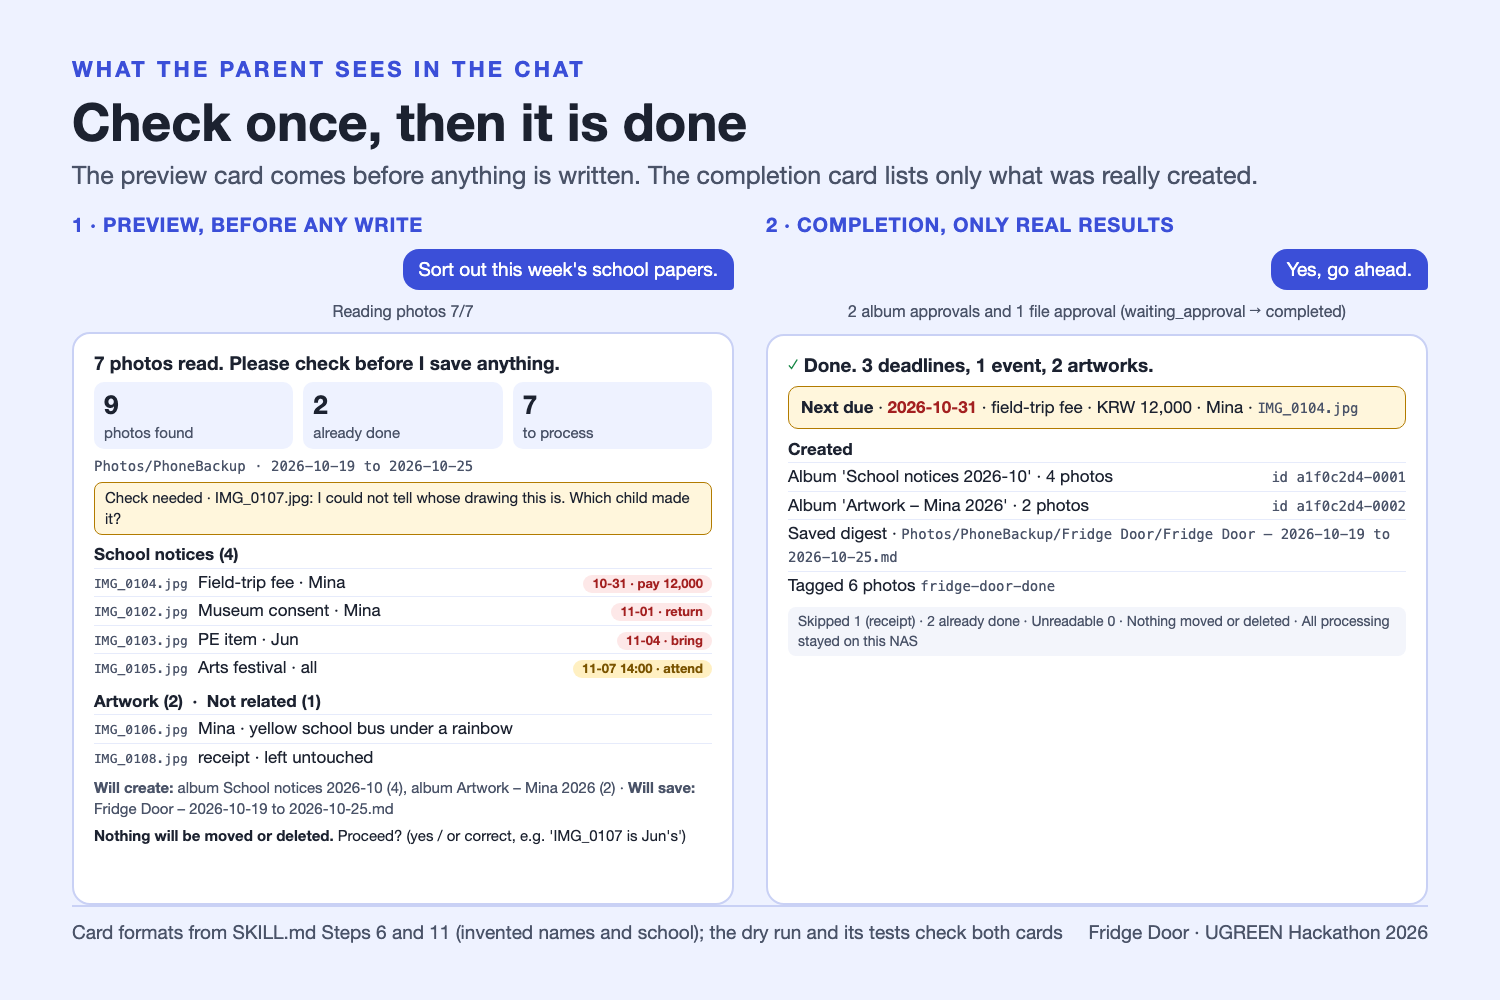
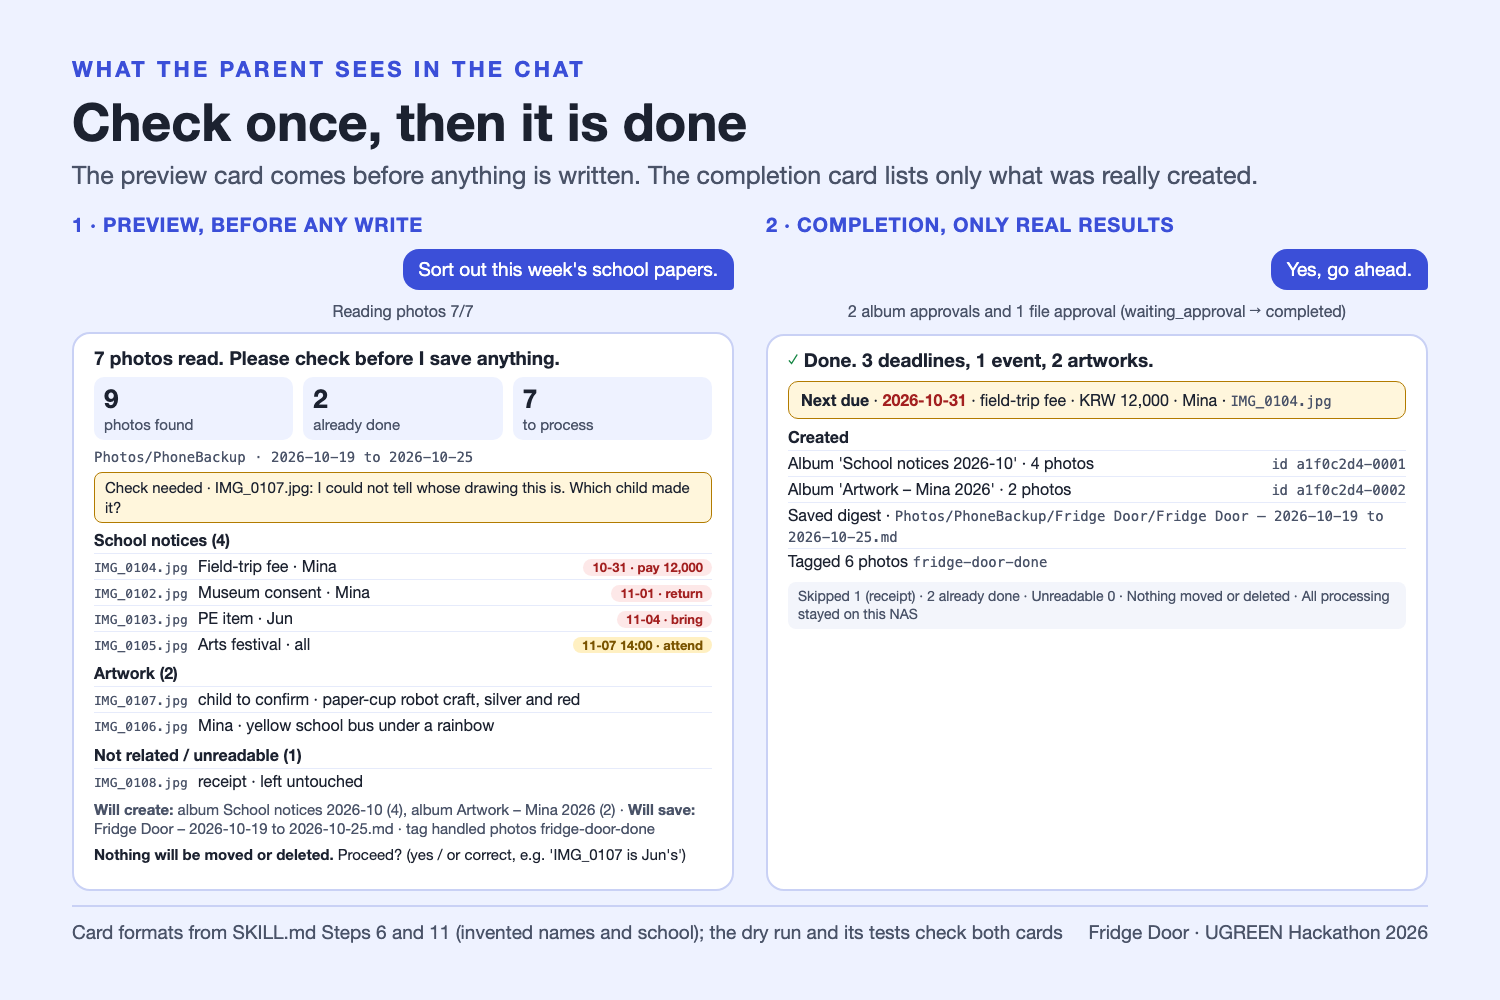
fix(gallery): preview card lists both artworks, separate Not related group, tag clause

Changed region(s): [[0.0613, 0.341, 0.4907, 0.868], [0.5213, 0.341, 0.9507, 0.651]]

diff --git a/docs/submission/gallery/00-chat.html b/docs/submission/gallery/00-chat.html
@@ -1,11 +1,11 @@
 <!doctype html><meta charset="utf-8"><title>chat</title><link rel="stylesheet" href="base.css">
 <style>
-.wrap{display:flex;gap:32px;flex:1;min-height:0;margin-top:-10px}
+.wrap{display:flex;gap:32px;flex:1;min-height:0;margin-top:-10px;margin-bottom:14px}
 .col{flex:1;display:flex;flex-direction:column;gap:12px;min-width:0}
 .cap{font-size:20px;font-weight:700;color:var(--blue);letter-spacing:.04em}
 .user{align-self:flex-end;background:var(--blue);color:#fff;border-radius:16px 16px 4px 16px;padding:9px 16px;font-size:19px}
 .sys{font-size:16px;color:var(--mute);text-align:center}
-.bot{padding:16px 20px;font-size:17px;line-height:1.38;flex:1}
+.bot{padding:12px 20px;font-size:16px;line-height:1.3;flex:1}
 .bot .head{font-weight:700;font-size:19px;margin-bottom:6px}
 .strip{display:flex;gap:10px;margin:6px 0 8px}
 .strip div{flex:1;background:var(--canvas);border-radius:10px;padding:5px 10px;font-size:15px;color:var(--mute)}
@@ -42,10 +42,12 @@
   <div class="r"><span class="f">IMG_0102.jpg</span><span class="t">Museum consent &middot; Mina</span><span class="pill red">11-01 &middot; return</span></div>
   <div class="r"><span class="f">IMG_0103.jpg</span><span class="t">PE item &middot; Jun</span><span class="pill red">11-04 &middot; bring</span></div>
   <div class="r"><span class="f">IMG_0105.jpg</span><span class="t">Arts festival &middot; all</span><span class="pill yel">11-07 14:00 &middot; attend</span></div>
-  <div class="g">Artwork (2) &nbsp;&middot;&nbsp; Not related (1)</div>
+  <div class="g">Artwork (2)</div>
+  <div class="r"><span class="f">IMG_0107.jpg</span><span class="t">child to confirm &middot; paper-cup robot craft, silver and red</span></div>
   <div class="r"><span class="f">IMG_0106.jpg</span><span class="t">Mina &middot; yellow school bus under a rainbow</span></div>
+  <div class="g">Not related / unreadable (1)</div>
   <div class="r"><span class="f">IMG_0108.jpg</span><span class="t">receipt &middot; left untouched</span></div>
-  <div class="note"><b>Will create:</b> album School notices 2026-10 (4), album Artwork &ndash; Mina 2026 (2) &middot; <b>Will save:</b> Fridge Door &ndash; 2026-10-19 to 2026-10-25.md</div>
+  <div class="note"><b>Will create:</b> album School notices 2026-10 (4), album Artwork &ndash; Mina 2026 (2) &middot; <b>Will save:</b> Fridge Door &ndash; 2026-10-19 to 2026-10-25.md &middot; tag handled photos fridge-door-done</div>
   <div class="note" style="color:var(--ink)"><b>Nothing will be moved or deleted.</b> Proceed? (yes / or correct, e.g. 'IMG_0107 is Jun's')</div>
  </div>
 </div>

diff --git a/tests/test_skill_should.py b/tests/test_skill_should.py
@@ -88,3 +88,15 @@ def test_s4_checked_items_are_done() -> None:
     part = subsection("Carry over open items")
     assert "(`- [ ]`)" in part and "`- [x]` count as done" in part and '"carried over"' in part
     assert "An empty result means there is nothing to carry over" in part
+
+
+def test_gallery_preview_card_lists_every_counted_artwork() -> None:
+    import re
+    from pathlib import Path
+
+    html = (Path(__file__).resolve().parent.parent / "docs/submission/gallery/00-chat.html").read_text()
+    card = html.split("2 &middot; COMPLETION")[0]
+    block = card.split("Artwork (2)")[1].split("Not related")[0]
+    assert len(re.findall(r"IMG_\d{4}\.jpg", block)) == 2
+    assert "Not related / unreadable (1)</div>" in card
+    assert "tag handled photos" in card

diff --git a/docs/spec-matrix.md b/docs/spec-matrix.md
@@ -88,3 +88,33 @@ Re-run: pytest 122 passed, ruff and mypy clean, `scripts/check.py fridge-door` 0
 | C3-S1-gallery | mockup S1 | Preview card sample consistent | gap (low) | gallery/00-chat.png says "Artwork (2)" but lists only IMG_0106; IMG_0107 appears only in the warning, unlike README sample and dry-run output (both list both items) |
 | C3-zip-size | 09 / Devpost | ZIP size stated correctly | fixed (Round 3) | devpost.md:36 and checklist.md:18 now say 15,854 bytes (stat dist/fridge-door.zip = 15,854); checklist max file size corrected to 20,074 bytes (SKILL.md) |
 | C3-S1-warn-render | mockup S1 | Low-OCR warning shown in a real run | match (spec) | flow-a dry run prints no warning (name read from the drawing); warning rendered in testkit-b and gallery |
+
+## Round 4 audit (2026-11-01, independent, full conformance)
+
+Re-run: pytest 122 passed, ruff and mypy clean, `scripts/check.py fridge-door` 0 error 0 warning, dry run flow-a completed (20 delegations listed, 2 waiting_approval then completed, digest printed), dist ZIP extracted and diffed against fridge-door/ (identical), git tree clean. Gallery 00-chat.png re-viewed against mockups S1/S2.
+
+| id | artifact section | expected | status | evidence |
+|---|---|---|---|---|
+| R4-S1 | mockup S1 | Preview card: 9/2/7 strip, warning, grouped lists, Will create/save, Proceed | match | 00-chat.png left card |
+| R4-S2 | mockup S2 | Completion card: Next due, real ids, tag line, grey status | match | 00-chat.png right card |
+| R4-S3 | mockup S3 | Digest with source files, checkboxes, meta line | match | dryrun delegation 20 text |
+| R4-flow | 06 flows A/B/C | Full flows runnable via dry run | match | flow-a, testkit-a, testkit-b |
+| R4-gallery-artwork | mockup S1 | Gallery card: Artwork (2) lists both items | gap (low) | 00-chat.png and 00-chat.html:45 show "Artwork (2)" with only IMG_0106; IMG_0107 only in the warning. Still open from Round 3 |
+| R4-S4/S5sign/S6/official | S4, S5, S6, 09 | Real NAS screens, signature, video, official checker | blocked | real NAS Round 2, user input, kit not installed |
+| R4-win-real | criteria AI NAS Fit | Judge sees real-NAS run | blocked | dry-run only until Round 2 device |
+
+## Round 4 confirmation pass (2026-11-01, independent)
+
+Re-run: pytest 122 passed, ruff and mypy clean, `scripts/check.py fridge-door` static-pass (0 error 0 warning), dist ZIP extracted and diffed (identical, 15,854 bytes), proposal 489 words, flow-a dry run Preview/Progress/Digest/tag step re-read.
+
+| id | artifact section | expected | status | evidence |
+|---|---|---|---|---|
+| R4C-gallery | mockup S1 / 09 gallery | First gallery image shows a consistent preview card | gap (medium) | gallery/00-chat.png and 00-chat.html:45-47: header "Artwork (2)" but only IMG_0106 listed (IMG_0107 missing); header merges "Not related (1)" on the same line; "Will save" line omits the "tag handled photos" clause the dry run prints. Dry run and README list both artworks. Open since Round 3, first image a judge sees |
+| R4C-all | 05, 06, S1-S3, S5, 09 | everything else | match | see Round 4 table above |
+| R4C-blocked | S4 image, S5 signature, S6, official checker, real-NAS run | n/a | blocked | real NAS Round 2, user input, kit not installed |
+
+## Round 4 fix (2026-11-01)
+
+| id | artifact section | expected | status | evidence |
+|---|---|---|---|---|
+| S1-gallery-artwork-list | mockup S1 / 09 gallery | Gallery preview card matches dry run and README: Artwork (2) lists IMG_0107 and IMG_0106, separate Not related group, Will save includes tag clause | fixed (Round 4) | gallery/00-chat.html and regenerated 00-chat.png; test_gallery_preview_card_lists_every_counted_artwork. Supersedes C3-S1-gallery, R4-gallery-artwork, R4C-gallery |
